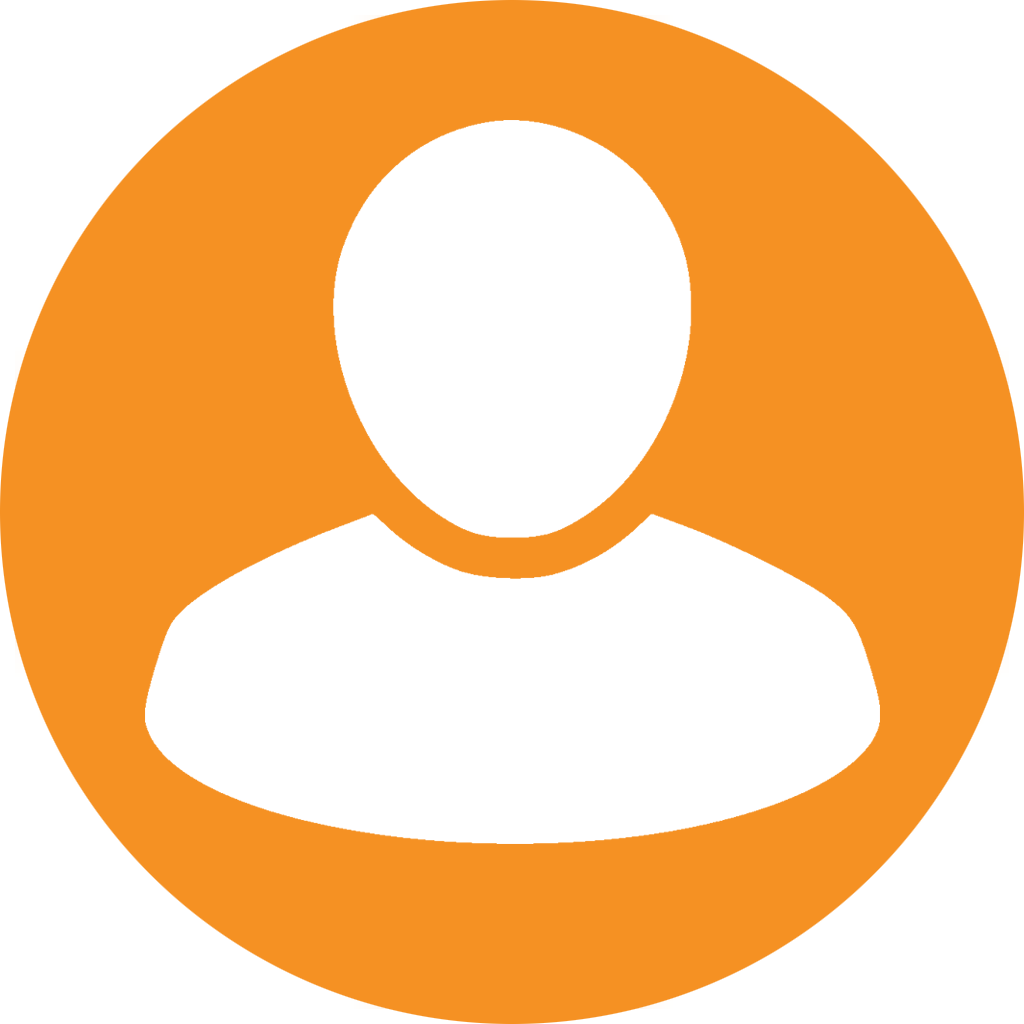
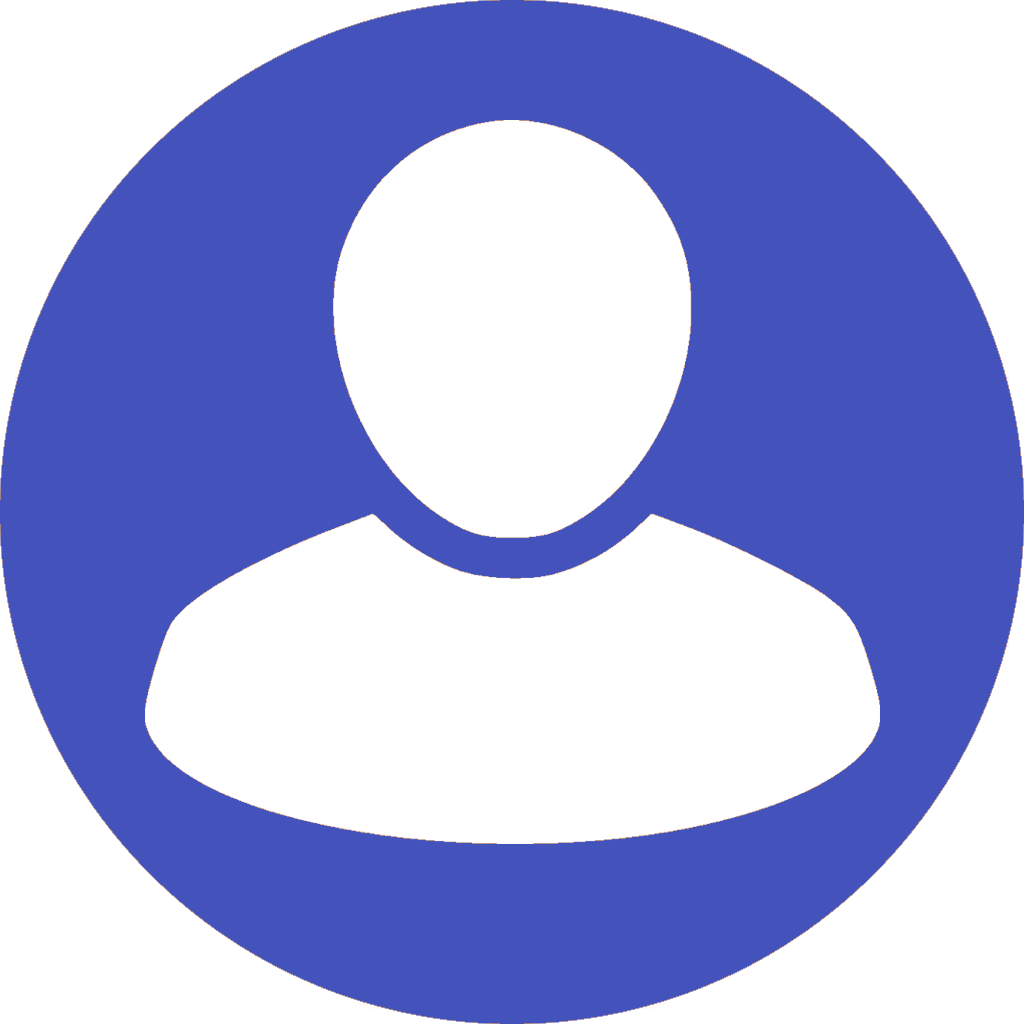
fix styling + remove session manager

diff --git a/public/css/styleFront.css b/public/css/styleFront.css
@@ -637,7 +637,7 @@ img#profile_preview {
 
 img#profile_preview:hover {
     background-color: white;
-    border: 3px dashed orange;
+    border: 3px dashed #2B38A1;
     cursor: pointer;
 }
 
@@ -1032,4 +1032,16 @@ img#profile_preview:hover {
 .chat .messages .right p{
     background-color: #4452BC !important;
     color: white !important;
+}
+
+.form-submit{
+    background-color: #4452BC;
+}
+
+.form-submit:hover{
+    background-color: #2B38A1;
+}
+
+a:hover {
+    color: #4452bc !important;
 }

diff --git a/public/css/webchat.css b/public/css/webchat.css
@@ -83,3 +83,13 @@
     border: 1px solid white;
     background-color: #2B38A1;
 }
+
+/* Chat icon */
+.rw-open-launcher{
+    display: inline !important;
+}
+
+/* List */
+.rw-response .rw-message-text ul li{
+    margin-left: 20px !important;
+}

diff --git a/resources/views/students/login.blade.php b/resources/views/students/login.blade.php
@@ -20,31 +20,6 @@
 
 @section('body')
     <section class="signin">
-        <div class="container" style="width: 700px">
-
-            <div class="message text-center
-
-            @php
-                $tried = Cookie::get('try_password') ?? 0;
-            @endphp
-
-            @if (request()->has('accountNotExist'))
-                text-danger">
-                No account registered with email: {{ session()->get('noEmail') }}.<br/>
-                <a class="text-danger" href="/customers/create"><b>Register an Account?</b></a>
-            @elseif ($tried >= $maxAttempts)
-                text-danger">
-                You have entered wrong password for {{ $maxAttempts }} times.<br/>
-                Please <a class="text-danger" href="/customers/resetPassword"><b>reset your password</b></a>
-            @elseif (request()->has('wrongPassword'))
-                text-danger">
-                ID and password not matched. You have <b>{{ $maxAttempts - $tried }}</b> attempt(s) more.
-            @else
-                text-dark">
-                Welcome Back!
-            @endif
-        </div>
-
             <form method="POST" class="register-form" id="register-form" action="/students/login">
                 @csrf
                 <div class="signin-content" style="width: 1600px">
@@ -87,6 +62,4 @@
             </form>
         </div>
     </section>
-
-    <script src="/js/account.js"></script>
 @endsection

diff --git a/routes/web.php b/routes/web.php
@@ -130,12 +130,12 @@ Route::group(['middleware' => ['role:student']], function () {
 
 // Route::get('/students/login', [StudentController::class, 'loginPage']);
 
-Route::get('/students/login', function () {
-    return SessionManager::showLogin();
-});
-Route::post('/students/login', function (Request $request) {
-    return SessionManager::doLogin($request);
-});
+// Route::get('/students/login', function () {
+//     return SessionManager::showLogin();
+// });
+// Route::post('/students/login', function (Request $request) {
+//     return SessionManager::doLogin($request);
+// });
 
 /*
 |--------------------------------------------------------------------------

diff --git a/app/Http/Controllers/MailController.php b/app/Http/Controllers/MailController.php
@@ -56,8 +56,8 @@ class MailController extends Controller
 
     public static function cancelAppEmail($to, $title)
     {
-        Mail::send(['html' => 'emailTemplate.pendingApp'], ['title' => $title], function ($message) use ($to) {
-            $message->to($to)->subject('Further Discussion on Appointment');
+        Mail::send(['html' => 'emailTemplate.cancelApp'], ['title' => $title], function ($message) use ($to) {
+            $message->to($to)->subject('Cancellation on Appointment');
             $message->from(config('mail.mailers.smtp.username'), 'EventWise');
         });
     }

diff --git a/app/Http/Controllers/StaffController.php b/app/Http/Controllers/StaffController.php
@@ -105,7 +105,7 @@ class StaffController extends Controller
         $newStaff->account_type = 2;
         $newStaff->save();
 
-        Alert::html('Registered Successfully!', 'Staff <b>' . e($request->name) . ' (ID: ' . $request->id . '</b>) has been registered.');
+        Alert::success('Registered Successfully!', 'Staff ' . e($request->name) . ' (ID: ' . $request->id . ') has been registered.');
 
         return redirect()->back();
     }

diff --git a/app/Facades/SessionManager.php b/app/Facades/SessionManager.php
@@ -13,6 +13,7 @@ class SessionManager
 {
     protected $maxAttempts = 5;
 
+    /*
     public function showLogin()
     {
         return view('students.login')->with('maxAttempts', $this->maxAttempts);
@@ -127,4 +128,5 @@ class SessionManager
             return redirect('/homepage');
         }
     }
+    */
 }

diff --git a/resources/views/easytest.blade.php b/resources/views/easytest.blade.php
@@ -13,6 +13,7 @@
         <a href="students/loginPage">Login</a><br/>
         <a href="/students/logout">Logout</a><br/>
         <a href="/chat">Live chat</a><br/>
+        <a href="students/profile">Profile</a><br/>
 
         <hr/>
 

diff --git a/resources/views/staffs/resetPassword.blade.php b/resources/views/staffs/resetPassword.blade.php
@@ -82,6 +82,4 @@
             </form>
         </div>
     </section>
-
-    <script src="/js/account.js"></script>
 @endsection
